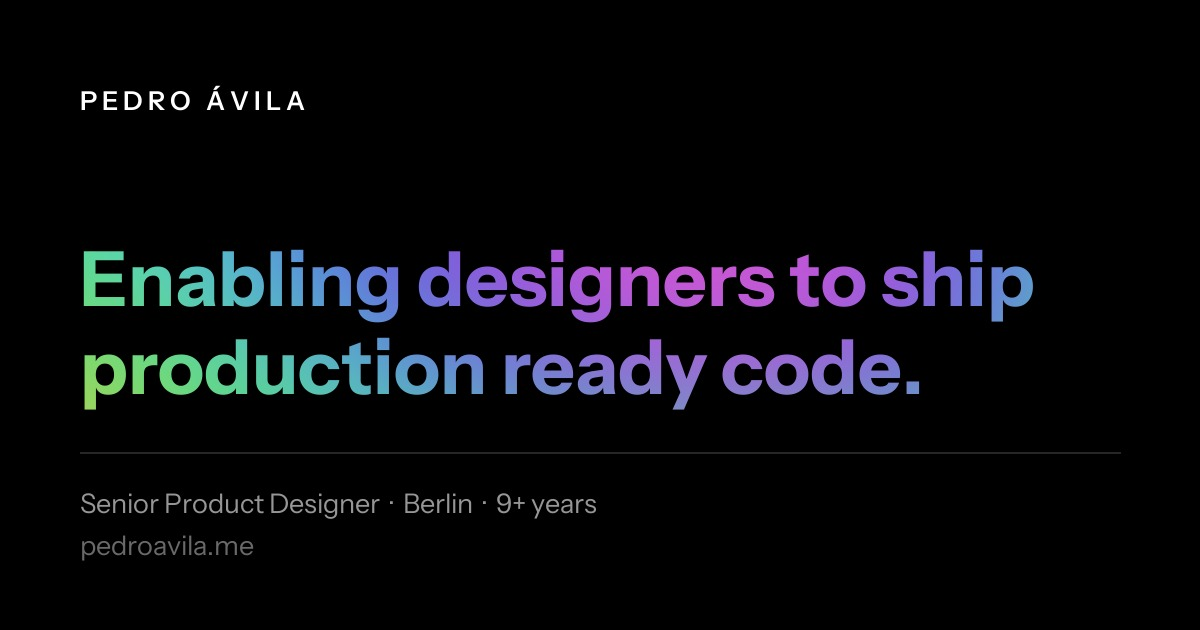
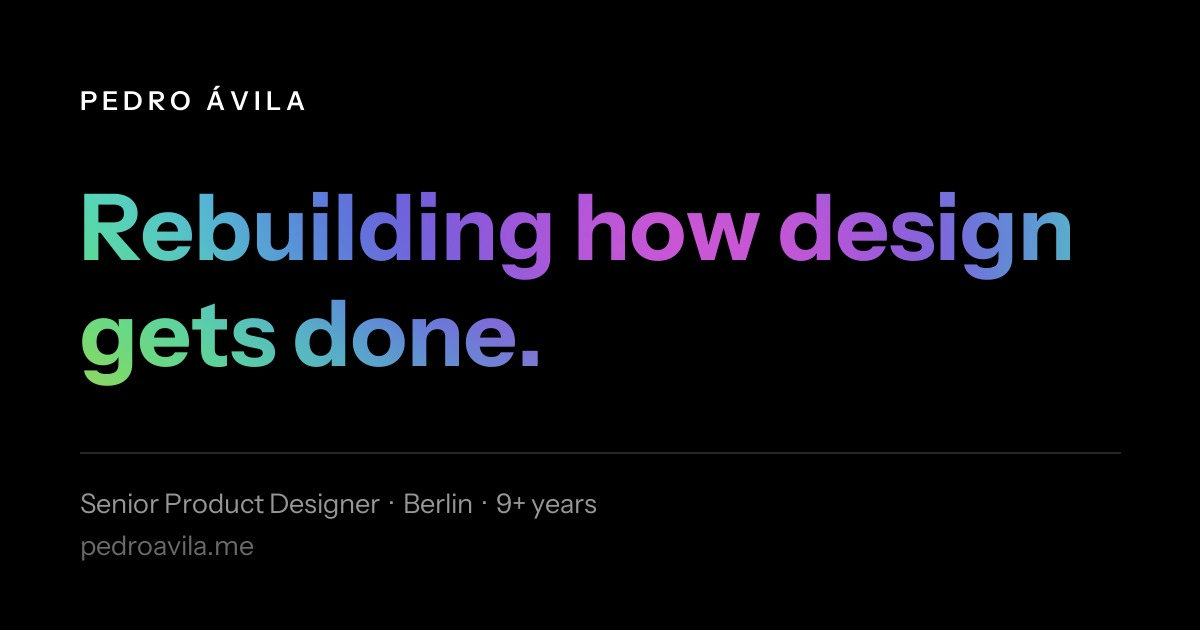
feat: new headline — "Rebuilding how design gets done."
Replaces "Enabling designers to ship production ready code.", which named
the last step of the work (the merge) rather than its scope. The role is
rebuilding the whole design workflow, not just the handoff to code.

Updated in all four places the old line appeared: the mobile and desktop
variants in App.tsx, the meta/OG/Twitter descriptions, the og:image:alt,
and the generated OG card.

make_og.py now auto-fits the headline to the content width instead of
assuming a fixed 76px, so the card can't silently overflow when the copy
changes. The shorter line lands at 92px.

Changed region(s): [[0.0617, 0.3016, 0.8942, 0.6635]]

diff --git a/index.html b/index.html
@@ -13,7 +13,7 @@
 
     <title>Pedro Ávila — Senior Product Designer</title>
     <meta name="description"
-        content="Senior Product Designer in Berlin, enabling designers to ship production-ready code. Design systems, design ops, and AI-assisted design-to-code workflows." />
+        content="Senior Product Designer in Berlin, rebuilding how design gets done — with AI, in production code. Design systems, design ops and design-to-code workflows." />
 
     <!-- Open Graph / social previews. These are the static defaults the site
          ships with; routes are rendered client-side, so link scrapers always
@@ -23,17 +23,17 @@
     <meta property="og:url" content="https://pedroavila.me/" />
     <meta property="og:title" content="Pedro Ávila — Senior Product Designer" />
     <meta property="og:description"
-        content="Senior Product Designer in Berlin, enabling designers to ship production-ready code. Design systems, design ops, and AI-assisted design-to-code workflows." />
+        content="Senior Product Designer in Berlin, rebuilding how design gets done — with AI, in production code. Design systems, design ops and design-to-code workflows." />
     <meta property="og:image" content="https://pedroavila.me/og-image.jpg" />
     <meta property="og:image:width" content="1200" />
     <meta property="og:image:height" content="630" />
-    <meta property="og:image:alt" content="Pedro Ávila — Enabling designers to ship production ready code." />
+    <meta property="og:image:alt" content="Pedro Ávila — Rebuilding how design gets done." />
     <meta property="og:locale" content="en_US" />
 
     <meta name="twitter:card" content="summary_large_image" />
     <meta name="twitter:title" content="Pedro Ávila — Senior Product Designer" />
     <meta name="twitter:description"
-        content="Senior Product Designer in Berlin, enabling designers to ship production-ready code. Design systems, design ops, and AI-assisted design-to-code workflows." />
+        content="Senior Product Designer in Berlin, rebuilding how design gets done — with AI, in production code. Design systems, design ops and design-to-code workflows." />
     <meta name="twitter:image" content="https://pedroavila.me/og-image.jpg" />
 </head>
 

diff --git a/src/App.tsx b/src/App.tsx
@@ -278,8 +278,8 @@ function App() {
                     <div>
                         <RainbowText>
                             <p className="text-[32px] md:text-[38px] lg:text-[48px] leading-[1.15] font-bold tracking-tight text-pretty">
-                                <span className="lg:hidden">Enabling designers to ship production ready code.</span>
-                                <span className="hidden lg:inline">Enabling designers to ship<br />production ready code.</span>
+                                <span className="lg:hidden">Rebuilding how design gets done.</span>
+                                <span className="hidden lg:inline">Rebuilding how design<br />gets done.</span>
                             </p>
                         </RainbowText>
                         <p className="text-[32px] md:text-[38px] lg:text-[48px] leading-[1.15] font-bold tracking-tight">

diff --git a/scripts/make_og.py b/scripts/make_og.py
@@ -13,9 +13,22 @@ W, H = 1200, 630
 PAD = 80
 FONTS = os.path.expanduser("~/Library/Fonts")
 
-bold = ImageFont.truetype(f"{FONTS}/InstrumentSans-Bold.ttf", 76)
 semi = ImageFont.truetype(f"{FONTS}/InstrumentSans-SemiBold.ttf", 26)
 reg = ImageFont.truetype(f"{FONTS}/InstrumentSans-Regular.ttf", 27)
+
+HEADLINE = ["Rebuilding how design", "gets done."]
+
+
+def fit_headline(lines, max_width, start=92, floor=44):
+    """Largest bold size at which every line clears the content width."""
+    for size in range(start, floor - 1, -2):
+        font = ImageFont.truetype(f"{FONTS}/InstrumentSans-Bold.ttf", size)
+        if all(font.getbbox(l)[2] <= max_width for l in lines):
+            return font, size
+    return ImageFont.truetype(f"{FONTS}/InstrumentSans-Bold.ttf", floor), floor
+
+
+bold, bold_size = fit_headline(HEADLINE, W - 2 * PAD)
 
 # --- rainbow field, same wave math as RainbowText.tsx at t=0.9 ---
 N = 35
@@ -39,11 +52,12 @@ rainbow = field.resize((W, H), Image.BICUBIC).filter(ImageFilter.GaussianBlur(70
 # --- headline drawn white, then multiplied by the rainbow ---
 head_layer = Image.new("RGB", (W, H), "black")
 hd = ImageDraw.Draw(head_layer)
-lines = ["Enabling designers to ship", "production ready code."]
-y = 232
-for line in lines:
+line_height = round(bold_size * 1.15)
+# keep the two-line block optically centred above the rule at y=452
+y = 452 - 70 - line_height * len(HEADLINE)
+for line in HEADLINE:
     hd.text((PAD, y), line, font=bold, fill="white")
-    y += 88
+    y += line_height
 
 # multiply: the rainbow shows through the white glyphs, black stays black
 card = Image.composite(rainbow, Image.new("RGB", (W, H), "black"), head_layer.convert("L"))
@@ -59,4 +73,4 @@ d.text((PAD, 528), "pedroavila.me", font=reg, fill=(105, 105, 105))
 
 out = os.path.join(os.path.dirname(os.path.dirname(os.path.abspath(__file__))), "public", "og-image.jpg")
 card.save(out, "JPEG", quality=92, optimize=True, progressive=True)
-print("wrote", out, card.size)
+print("wrote", out, card.size, "headline", bold_size, "px")
